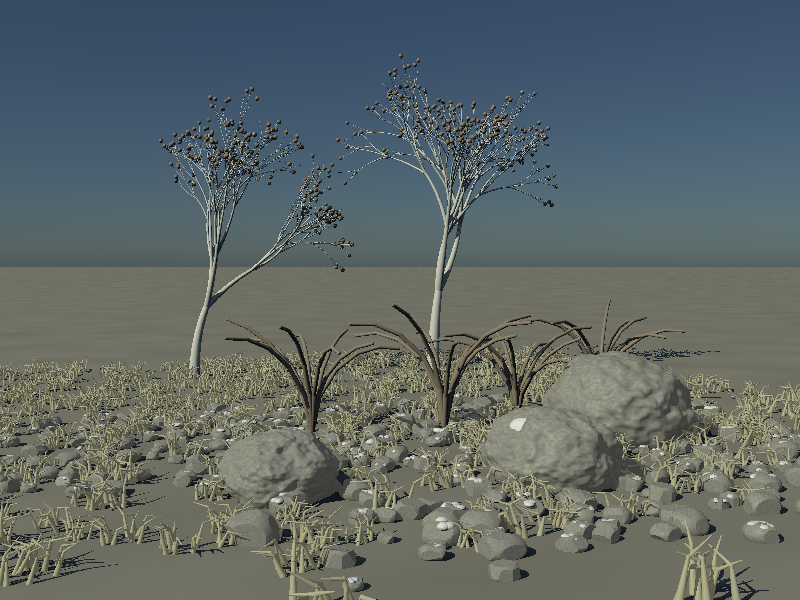
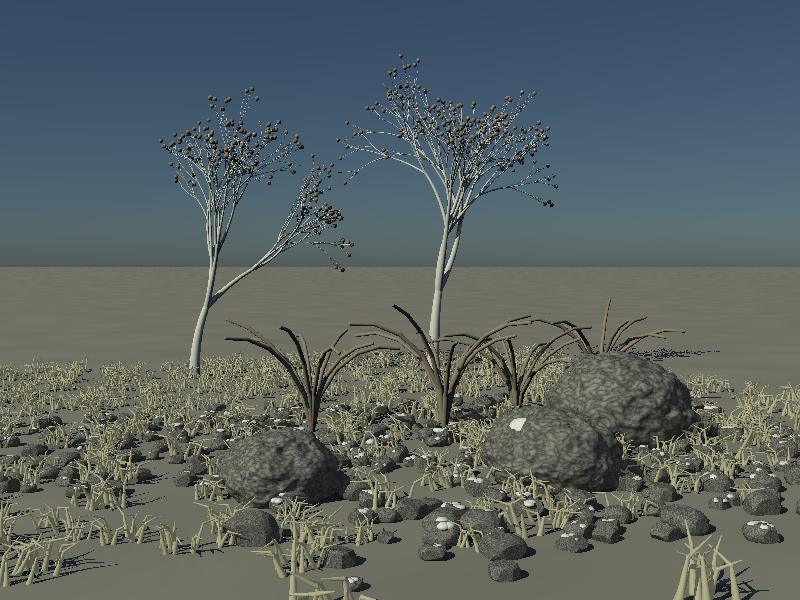
Stop the stones looking like putty and build the fire the way a fire is built
Five faults across two libraries, and the thread running through all of them is
that a pattern's color map has to be written where the pattern's values actually
are.  Every one of these was measured rather than guessed at, because guessing is
how four of them got there.

**The rocks read pale, flat and plastic, for three separate reasons.**

The color map's stops were at 0.0, 0.5 and 1.0.  Granite is a sum of six octaves
of `|0.5 - noise|`; probed over sixty thousand points it runs 0.017 to 0.684 with
a mean of 0.232 and **99.2% of it below 0.5**, so every stone was squeezed into
the gap between the first two colors.  An intended spread of 0.26 to 0.49 arrived
as 0.28 to 0.36 -- a third of the contrast that was written, and all of it in the
pale middle.  Each rock came out one flat tone, which is most of what made them
look like putty.  The stops now sit at granite's own percentiles.

They were too bright.  Dry granite returns about a fifth of the light that falls
on it; the old middle tone of 0.32 was concrete.  Under a warm sky a too-bright
grey does not read as pale stone but as pale plastic, and takes the sun's color
with it, which is where the yellow cast came from.

And the highlight was gathered: `specular 0.10` at `shininess 22` is a collected
sheen, and a collected sheen sliding over a smoothly shaded form says *coated*.
Stone scatters off a roughness far below anything modelled, so what comes back is
[…]

Changed region(s): [[0.0, 0.57, 1.0, 0.99], [0.4062, 0.9, 0.4688, 0.99]]

diff --git a/docs/libraries.md b/docs/libraries.md
@@ -252,6 +252,33 @@ rather than weathered stone, and measured about four times a sphere rather than 
 That is the same division `undergrowth` makes between `Tuft` and `Grass`: the careful expensive one
 for the few you look at, the cheap one for the many you do not.  A picture wants some of each.
 
+##### What makes a shape into stone
+
+The shape argument above cuts both ways.  A good outline does not save a bad material: these rocks had
+the right silhouette from the start and still read as pale plastic, and it took three separate faults
+to fix.
+
+**The color map's stops have to sit where the pattern's values actually fall.**  It is natural to
+write a map from nought to one, and quite wrong for `granite`, which is a sum of six octaves of
+`|0.5 − noise|`.  Measured over sixty thousand points it runs **0.017 to 0.684, mean 0.232, with 99.2%
+of it below 0.5** — so stops at 0.0, 0.5 and 1.0 squeezed every stone into the gap between the first
+two colors.  An intended spread of 0.26 to 0.49 arrived as 0.28 to 0.36: a third of the contrast that
+was written, and all of it in the pale middle.  Each rock came out a single flat tone, which is most of
+what made them look like putty.  The stops now sit at granite's 1st, 25th, 50th, 75th and 95th
+percentiles, and the speckle arrives.
+
+**Stone is darker than it seems it should be.**  Dry granite returns about a fifth of the light that
+falls on it, and basalt less; the old middle tone of 0.32 was concrete.  Under a warm sky a too-bright
+grey does not read as pale stone but as pale *plastic*, and it takes the sun's color with it — which is
+where the yellow cast came from.
+
+**A gathered highlight is the strongest plastic cue there is.**  `specular 0.10` at `shininess 22` is a
+soft collected sheen, and a collected sheen sliding across a smoothly shaded form says *coated*.  Stone
+scatters off a surface rough far below the scale of anything modelled, so what comes back is broad and
+dim: `specular 0.03` at `shininess 9`.  The ambient came down with it, from 0.16 to 0.06 — a sixth of
+the light arriving from nowhere in particular was lifting the crevices to the same tone as the faces,
+flattening the very shading that says *rough*.
+
 #### Fire
 
 ```
@@ -270,6 +297,30 @@ object Campfire(1.4) { translate [3, 0, -2] }
 **These take two numbers, not three.**  Everything else in these libraries takes a season second, and
 fire does not, because fire does not have one.  A word taken and ignored is worse than a word not
 asked for: it says the library thought about the question when it did not.
+
+##### What makes a pile of tubes into a fire
+
+**A fire is built, and how it is built shows.**  The logs here lie two across the bed with four leaning
+in over them, bases out on the ground and tips gathered above the middle.  The first version made a
+*starburst*: each log was a vertical tube with its base at the origin, tilted and then swung round, and
+rotating about the origin holds the base still while the tip swings out — so six logs came out with
+their ends meeting in the middle and their far ends radiating like the spokes of a wheel, lying only
+28° off the ground besides.  A leaning log is the other way about, so each is now given its two ends
+directly rather than rotated into place: it says what is meant, and it cannot swing the wrong end.
+
+**Bark, not a flat brown.**  A log of one uniform colour is a dowel — nothing about its surface says
+wood, so the eye reads the shape alone, and the shape of a tube is a tube.  The bark is a
+[`crackle`](pigments-and-patterns.md#continuous-patterns) pigment, which is a web of cracks between cells and
+therefore exactly the right pattern, with its stops set at crackle's own percentiles rather than spread
+over nought to one.  Scale matters more than it looks: at cells a third of the log's diameter it read
+as a pineapple, and a log wants twenty or thirty cells round its circumference.
+
+**And the coals have to be above the ground.**  `FireBed` is a slab in the *floor* of its shell — its
+density only rises above nought in the bottom sixth — so a shell that is scaled flat and then lifted by
+half of that scale puts the whole glowing part underground.  `Embers` did exactly that, and rendered
+faithfully as unlit dirt.  Being a slab, it is also thin, and what a medium gives back is emission
+times density times the distance a ray travels through it: a coal bed crossed in a tenth of a unit
+needs several times the density of a flame crossed in three tenths, or it comes out too faint to find.
 
 **Put a fire in a scene and the scene is lit.**  There is nothing to place beside it and nothing to
 keep in step: the stuff a flame is made of gives off light where it is, and that light falls on the
